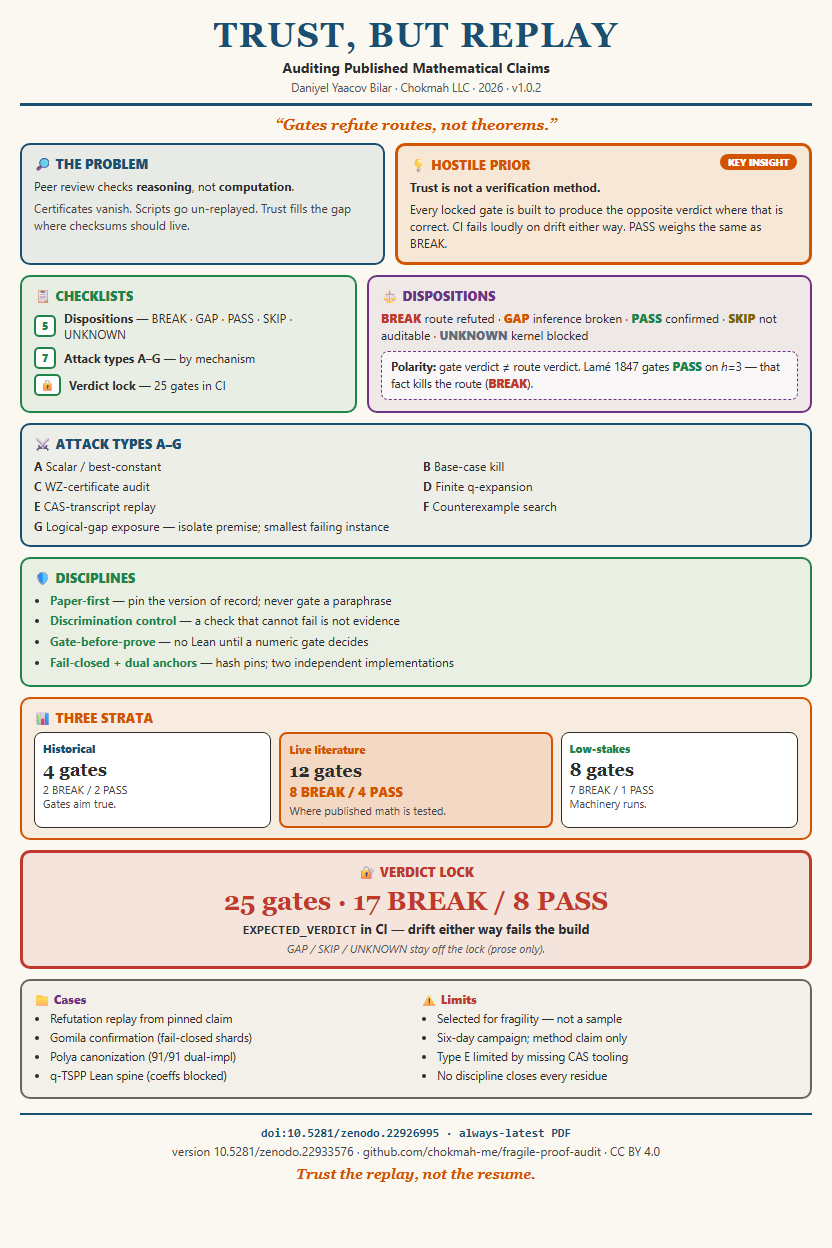
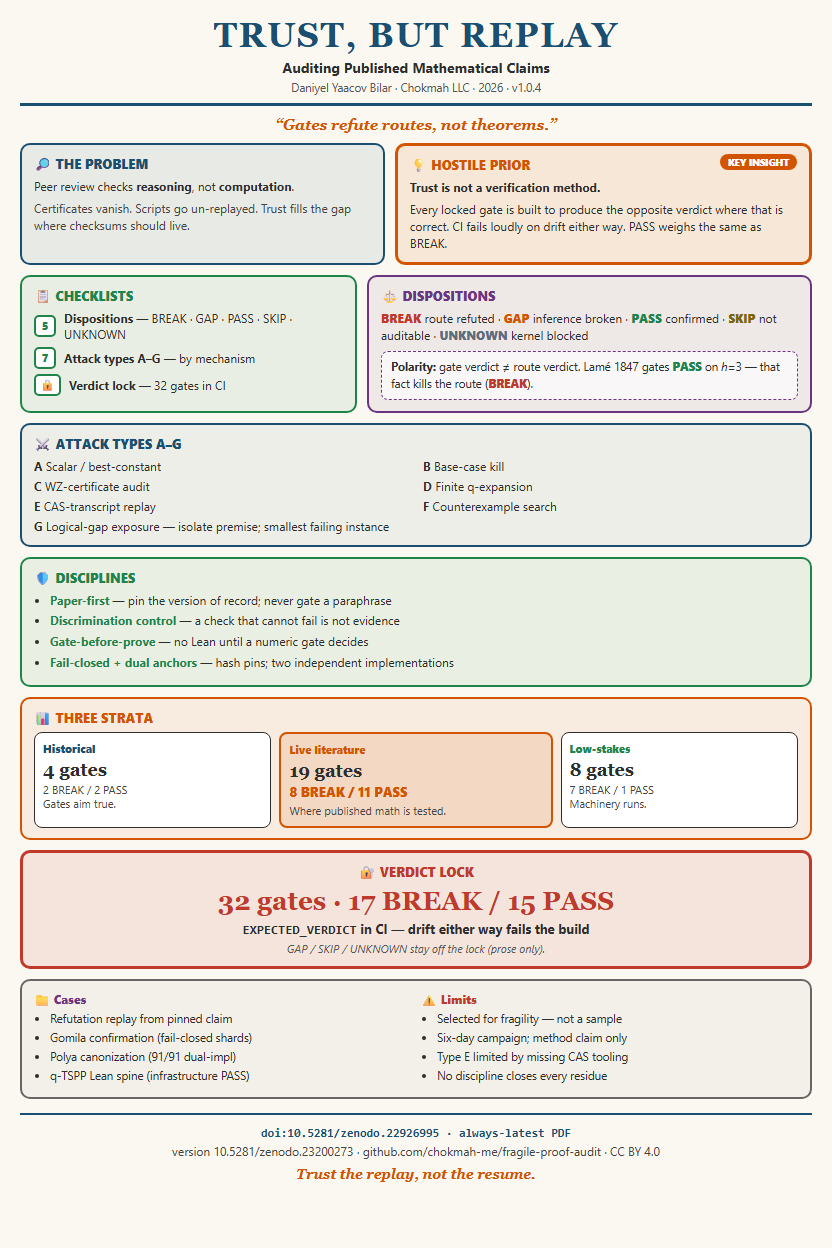
Trust-but-Replay catalog v1.0.4: DOI 10.5281/zenodo.23200273.
Keep page slug 22926996. Update version DOI, 32-gate lock (17 BREAK /
15 PASS), abstract/JSON-LD/feed/sitemap, and sketchnote (cache-bust ?v=6).

diff --git a/research/trust-but-replay-auditing-published-mathematical-claims-22926996/index.html b/research/trust-but-replay-auditing-published-mathematical-claims-22926996/index.html
@@ -4,28 +4,28 @@
     <meta charset="UTF-8">
     <meta name="viewport" content="width=device-width, initial-scale=1.0">
     <title>Trust, but Replay: Auditing Published Mathematical Claims | Chokmah Research</title>
-    <meta name="description" content="v1.0.3 methods companion to fragile-proof-audit: disposition taxonomy (BREAK/GAP/PASS/SKIP/UNKNOWN), attack types A–G, evidentiary disciplines, and a 25-gate verdict lock (17 BREAK / 8 PASS). Prefer concept DOI 10.5281/zenodo.22926995.">
+    <meta name="description" content="v1.0.4 methods companion to fragile-proof-audit: disposition taxonomy (BREAK/GAP/PASS/SKIP/UNKNOWN), attack types A–G, evidentiary disciplines, and a 32-gate verdict lock (17 BREAK / 15 PASS). Prefer concept DOI 10.5281/zenodo.22926995.">
     <link rel="canonical" href="https://chokmah.me/research/trust-but-replay-auditing-published-mathematical-claims-22926996/">
     <meta property="og:type" content="article">
     <meta property="og:url" content="https://chokmah.me/research/trust-but-replay-auditing-published-mathematical-claims-22926996/">
     <meta property="og:title" content="Trust, but Replay: Auditing Published Mathematical Claims">
-    <meta property="og:description" content="v1.0.3 methods companion to fragile-proof-audit: disposition taxonomy, attack types A–G, evidentiary disciplines, and a 25-gate verdict lock (17 BREAK / 8 PASS). Prefer concept DOI 10.5281/zenodo.22926995.">
-    <meta property="og:image" content="https://chokmah.me/assets/sketchnote-zenodo-22926996.png?v=5">
+    <meta property="og:description" content="v1.0.4 methods companion to fragile-proof-audit: disposition taxonomy, attack types A–G, evidentiary disciplines, and a 32-gate verdict lock (17 BREAK / 15 PASS). Prefer concept DOI 10.5281/zenodo.22926995.">
+    <meta property="og:image" content="https://chokmah.me/assets/sketchnote-zenodo-22926996.png?v=6">
     <meta name="twitter:card" content="summary_large_image">
-    <meta name="twitter:image" content="https://chokmah.me/assets/sketchnote-zenodo-22926996.png?v=5">
+    <meta name="twitter:image" content="https://chokmah.me/assets/sketchnote-zenodo-22926996.png?v=6">
     <meta name="citation_title" content="Trust, but Replay: Auditing Published Mathematical Claims">
     <meta name="citation_author" content="Bilar, Daniyel Yaacov">
-    <meta name="citation_publication_date" content="2026-09-23">
-    <meta name="citation_doi" content="10.5281/zenodo.23148836">
+    <meta name="citation_publication_date" content="2026-10-06">
+    <meta name="citation_doi" content="10.5281/zenodo.23200273">
     <meta name="citation_publisher" content="Zenodo">
-    <meta name="citation_public_url" content="https://zenodo.org/records/23148836">
-    <meta name="citation_abstract_html_url" content="https://zenodo.org/records/23148836">
-    <meta name="citation_pdf_url" content="https://zenodo.org/records/23148836/files/bilar-2026-trust-but-replay.pdf?download=1">
+    <meta name="citation_public_url" content="https://zenodo.org/records/23200273">
+    <meta name="citation_abstract_html_url" content="https://zenodo.org/records/23200273">
+    <meta name="citation_pdf_url" content="https://zenodo.org/records/23200273/files/bilar-2026-trust-but-replay.pdf?download=1">
     <meta name="citation_keywords" content="proof audit; reproducibility; mathematical claims; computer-assisted proof; fail-closed replay; formal verification; research integrity; Lean 4">
     <meta name="DC.title" content="Trust, but Replay: Auditing Published Mathematical Claims">
     <meta name="DC.creator" content="Bilar, Daniyel Yaacov">
-    <meta name="DC.identifier" content="https://doi.org/10.5281/zenodo.23148836">
-    <meta name="DC.date" content="2026-09-23">
+    <meta name="DC.identifier" content="https://doi.org/10.5281/zenodo.23200273">
+    <meta name="DC.date" content="2026-10-06">
     <meta name="DC.rights" content="cc-by-4.0">
     <script type="application/ld+json">
 {
@@ -34,19 +34,19 @@
   "name": "Trust, but Replay: Auditing Published Mathematical Claims",
   "headline": "Trust, but Replay: Auditing Published Mathematical Claims",
   "url": "https://chokmah.me/research/trust-but-replay-auditing-published-mathematical-claims-22926996/",
-  "datePublished": "2026-09-23",
+  "datePublished": "2026-10-06",
   "inLanguage": "en",
-  "abstract": "Published mathematics is trusted far more than it is independently replayed. Peer review checks reasoning, not computation - and increasingly, part of the proof is a computation. This paper describes a short, intensive audit campaign (six calendar days, 2026-09-18 through 2026-09-23) that replays published mathematical claims from scratch under a hostile prior: every locked gate is built to produce the opposite verdict where the opposite is correct (the four exact-equality gates are exempt), and a CI-enforced verdict lock fails loudly on drift in either direction. The contribution is the playbook, not the verdicts: a five-disposition taxonomy (BREAK, GAP, PASS, SKIP, UNKNOWN) with a polarity rule separating gate verdicts from claim-level dispositions; seven attack types classified by mechanism, each with a worked example; and the evidentiary disciplines - paper-first gating, discrimination controls, gate-before-prove, fail-closed replay, independent anchors - together with the record of where those disciplines were violated and what caught the violations. The 25 locked gates (17 BREAK / 8 PASS) fall into three strata with very different evidentiary weight. Prefer concept DOI 10.5281/zenodo.22926995 for always-latest PDF. Companion campaign: https://github.com/chokmah-me/fragile-proof-audit. Gates refute routes, not theorems.",
+  "abstract": "Published mathematics is trusted far more than it is independently replayed. Peer review checks reasoning, not computation - and increasingly, part of the proof is a computation. This paper describes a short, intensive audit campaign (six calendar days, 2026-09-18 through 2026-09-23) that replays published mathematical claims from scratch under a hostile prior: every locked gate is built to produce the opposite verdict where the opposite is correct (the four exact-equality gates are exempt), and a CI-enforced verdict lock fails loudly on drift in either direction. The contribution is the playbook, not the verdicts: a five-disposition taxonomy (BREAK, GAP, PASS, SKIP, UNKNOWN) with a polarity rule separating gate verdicts from claim-level dispositions; seven attack types classified by mechanism, each with a worked example; and the evidentiary disciplines - paper-first gating, discrimination controls, gate-before-prove, fail-closed replay, independent anchors - together with the record of where those disciplines were violated and what caught the violations. The 32 locked gates (17 BREAK / 15 PASS) fall into three strata with very different evidentiary weight: four historical calibrations, nineteen live-literature targets, and eight low-stakes preprints, plus one infrastructure oracle. Prefer concept DOI 10.5281/zenodo.22926995 for always-latest PDF. Companion campaign: https://github.com/chokmah-me/fragile-proof-audit. Gates refute routes, not theorems.",
   "identifier": {
     "@type": "PropertyValue",
     "propertyID": "DOI",
-    "value": "10.5281/zenodo.23148836"
+    "value": "10.5281/zenodo.23200273"
   },
   "sameAs": [
-    "https://doi.org/10.5281/zenodo.23148836",
+    "https://doi.org/10.5281/zenodo.23200273",
     "https://doi.org/10.5281/zenodo.22926995"
   ],
-  "image": "https://chokmah.me/assets/sketchnote-zenodo-22926996.png?v=5",
+  "image": "https://chokmah.me/assets/sketchnote-zenodo-22926996.png?v=6",
   "author": [
     {
       "@type": "Person",
@@ -75,7 +75,7 @@
     "Lean 4"
   ],
   "license": "https://creativecommons.org/licenses/by/4.0/",
-  "version": "1.0.3"
+  "version": "1.0.4"
 }
     </script>
     <link rel="icon" type="image/x-icon" href="/favicon.ico">
@@ -140,24 +140,24 @@
     <nav class="site-nav"><a href="/">chokmah.me</a> / <a href="/research/">Research</a></nav>
     <header>
       <h1>Trust, but Replay: Auditing Published Mathematical Claims</h1>
-      <p class="meta"><span>Bilar, Daniyel Yaacov</span> &middot; 2026-09-23 &middot; v1.0.3 &middot; publication/preprint &middot; cc-by-4.0</p>
+      <p class="meta"><span>Bilar, Daniyel Yaacov</span> &middot; 2026-10-06 &middot; v1.0.4 &middot; publication/preprint &middot; cc-by-4.0</p>
     </header>
     <div class="callout">
-      <strong>Version of record (canonical):</strong> <a href="https://doi.org/10.5281/zenodo.23148836">https://doi.org/10.5281/zenodo.23148836</a><br>
+      <strong>Version of record (canonical):</strong> <a href="https://doi.org/10.5281/zenodo.23200273">https://doi.org/10.5281/zenodo.23200273</a><br>
       <strong>Concept DOI (always latest PDF):</strong> <a href="https://doi.org/10.5281/zenodo.22926995">https://doi.org/10.5281/zenodo.22926995</a><br>
-      <strong>Download PDF (Zenodo):</strong> <a href="https://zenodo.org/records/23148836/files/bilar-2026-trust-but-replay.pdf?download=1">open</a><br>
+      <strong>Download PDF (Zenodo):</strong> <a href="https://zenodo.org/records/23200273/files/bilar-2026-trust-but-replay.pdf?download=1">open</a><br>
       <strong>Companion campaign:</strong> <a href="https://github.com/chokmah-me/fragile-proof-audit">github.com/chokmah-me/fragile-proof-audit</a><br>
       <strong>OSF mirror:</strong> <a href="https://osf.io/ukmjp/">osf.io/ukmjp</a> (DOI <a href="https://doi.org/10.17605/OSF.IO/UKMJP">10.17605/OSF.IO/UKMJP</a>)
     </div>
     <div class="poster">
-      <a href="https://chokmah.me/assets/sketchnote-zenodo-22926996.png?v=5">
-        <img src="https://chokmah.me/assets/sketchnote-zenodo-22926996.png?v=5" width="563" height="845"
-             alt="Sketchnote for Trust, but Replay: gates refute routes not theorems; five dispositions; 25-gate verdict lock; attack types A through G; hostile prior on published computational claims">
+      <a href="https://chokmah.me/assets/sketchnote-zenodo-22926996.png?v=6">
+        <img src="https://chokmah.me/assets/sketchnote-zenodo-22926996.png?v=6" width="563" height="845"
+             alt="Sketchnote for Trust, but Replay: gates refute routes not theorems; five dispositions; 32-gate verdict lock; attack types A through G; hostile prior on published computational claims">
       </a>
-      <p class="cap">Sketchnote for v1.0.3 (CC BY 4.0). <a href="https://chokmah.me/assets/sketchnote-zenodo-22926996.png?v=5">Full-size PNG</a>.</p>
+      <p class="cap">Sketchnote for v1.0.4 (CC BY 4.0). <a href="https://chokmah.me/assets/sketchnote-zenodo-22926996.png?v=6">Full-size PNG</a>.</p>
     </div>
     <h2>Abstract</h2>
-    <p>Published mathematics is trusted far more than it is independently replayed. Peer review checks reasoning, not computation - and increasingly, part of the proof <em>is</em> a computation. This paper describes a short, intensive audit campaign (six calendar days, 2026-09-18 through 2026-09-23) that replays published mathematical claims from scratch under a hostile prior: every locked gate is built to produce the opposite verdict where the opposite is correct (the four exact-equality gates are exempt), and a CI-enforced verdict lock fails loudly on drift in either direction. The contribution is the playbook, not the verdicts: a five-disposition taxonomy (BREAK, GAP, PASS, SKIP, UNKNOWN) with a polarity rule separating gate verdicts from claim-level dispositions; seven attack types classified by mechanism, each with a worked example; and the evidentiary disciplines - paper-first gating, discrimination controls, gate-before-prove, fail-closed replay, independent anchors - together with the record of where those disciplines were violated and what caught the violations. The 25 locked gates (17 BREAK / 8 PASS) fall into three strata with very different evidentiary weight: four historical calibrations, twelve live-literature targets, and eight low-stakes preprints, plus one infrastructure oracle. Companion repository: <a href="https://github.com/chokmah-me/fragile-proof-audit">github.com/chokmah-me/fragile-proof-audit</a>. Gates refute routes, not theorems.</p>
+    <p>Published mathematics is trusted far more than it is independently replayed. Peer review checks reasoning, not computation - and increasingly, part of the proof <em>is</em> a computation. This paper describes a short, intensive audit campaign (six calendar days, 2026-09-18 through 2026-09-23) that replays published mathematical claims from scratch under a hostile prior: every locked gate is built to produce the opposite verdict where the opposite is correct (the four exact-equality gates are exempt), and a CI-enforced verdict lock fails loudly on drift in either direction. The contribution is the playbook, not the verdicts: a five-disposition taxonomy (BREAK, GAP, PASS, SKIP, UNKNOWN) with a polarity rule separating gate verdicts from claim-level dispositions; seven attack types classified by mechanism, each with a worked example; and the evidentiary disciplines - paper-first gating, discrimination controls, gate-before-prove, fail-closed replay, independent anchors - together with the record of where those disciplines were violated and what caught the violations. The 32 locked gates (17 BREAK / 15 PASS) fall into three strata with very different evidentiary weight: four historical calibrations, nineteen live-literature targets, and eight low-stakes preprints, plus one infrastructure oracle. Companion repository: <a href="https://github.com/chokmah-me/fragile-proof-audit">github.com/chokmah-me/fragile-proof-audit</a>. Gates refute routes, not theorems.</p>
     <h2>Keywords</h2>
     <p class="kw">proof audit &middot; reproducibility &middot; mathematical claims &middot; computer-assisted proof &middot; fail-closed replay &middot; formal verification &middot; research integrity &middot; Lean 4</p>
     <p style="margin-top:40px"><a href="/research/">&larr; All research</a></p>

diff --git a/assets/sketchnote-zenodo-22926996.html b/assets/sketchnote-zenodo-22926996.html
@@ -225,7 +225,7 @@
   <header class="title">
     <h1>TRUST, BUT REPLAY</h1>
     <p class="sub">Auditing Published Mathematical Claims</p>
-    <p class="by">Daniyel Yaacov Bilar · Chokmah LLC · 2026 · v1.0.2</p>
+    <p class="by">Daniyel Yaacov Bilar · Chokmah LLC · 2026 · v1.0.4</p>
   </header>
   <p class="motto">“Gates refute routes, not theorems.”</p>
 
@@ -248,7 +248,7 @@
       <h2>📋 CHECKLISTS</h2>
       <div class="check-item"><span class="badge">5</span><span><strong>Dispositions</strong> — BREAK · GAP · PASS · SKIP · UNKNOWN</span></div>
       <div class="check-item"><span class="badge">7</span><span><strong>Attack types A–G</strong> — by mechanism</span></div>
-      <div class="check-item"><span class="badge">🔒</span><span><strong>Verdict lock</strong> — 25 gates in CI</span></div>
+      <div class="check-item"><span class="badge">🔒</span><span><strong>Verdict lock</strong> — 32 gates in CI</span></div>
     </div>
     <div class="col box disp" style="flex:1.35">
       <h2>⚖ DISPOSITIONS</h2>
@@ -299,8 +299,8 @@
       </div>
       <div class="stratum s-live">
         <div class="lab">Live literature</div>
-        <div class="num">12 gates</div>
-        <div class="detail" style="font-size:13px;font-weight:800;color:var(--orange)">8 BREAK / 4 PASS</div>
+        <div class="num">19 gates</div>
+        <div class="detail" style="font-size:13px;font-weight:800;color:var(--orange)">8 BREAK / 11 PASS</div>
         <div class="detail">Where published math is tested.</div>
       </div>
       <div class="stratum s-low">
@@ -313,7 +313,7 @@
 
   <div class="box lock">
     <h2>🔐 VERDICT LOCK</h2>
-    <div class="big">25 gates · 17 BREAK / 8 PASS</div>
+    <div class="big">32 gates · 17 BREAK / 15 PASS</div>
     <div class="subline"><code>EXPECTED_VERDICT</code> in CI — drift either way fails the build</div>
     <div class="note">GAP / SKIP / UNKNOWN stay off the lock (prose only).</div>
   </div>
@@ -326,7 +326,7 @@
           <li>Refutation replay from pinned claim</li>
           <li>Gomila confirmation (fail-closed shards)</li>
           <li>Polya canonization (91/91 dual-impl)</li>
-          <li>q-TSPP Lean spine (coeffs blocked)</li>
+          <li>q-TSPP Lean spine (infrastructure PASS)</li>
         </ul>
       </div>
       <div class="lim">
@@ -343,7 +343,7 @@
 
   <footer class="footer">
     <div class="doi">doi:10.5281/zenodo.22926995 · always-latest PDF</div>
-    <div>version 10.5281/zenodo.22933576 · github.com/chokmah-me/fragile-proof-audit · CC BY 4.0</div>
+    <div>version 10.5281/zenodo.23200273 · github.com/chokmah-me/fragile-proof-audit · CC BY 4.0</div>
     <div class="close">Trust the replay, not the resume.</div>
   </footer>
 

diff --git a/research/index.html b/research/index.html
@@ -73,12 +73,12 @@
             "@id": "https://chokmah.me/research/trust-but-replay-auditing-published-mathematical-claims-22926996/#item",
             "url": "https://chokmah.me/research/trust-but-replay-auditing-published-mathematical-claims-22926996/",
             "name": "Trust, but Replay: Auditing Published Mathematical Claims",
-            "datePublished": "2026-09-23",
+            "datePublished": "2026-10-06",
             "author": {
               "@id": "https://chokmah.me/#person"
             },
-            "identifier": "10.5281/zenodo.23148836",
-            "description": "v1.0.3 methods companion to fragile-proof-audit: disposition taxonomy (BREAK/GAP/PASS/SKIP/UNKNOWN), attack types A–G, evidentiary disciplines, 25-gate verdict lock (17 BREAK / 8 PASS). Concept DOI 10.5281/zenodo.22926995."
+            "identifier": "10.5281/zenodo.23200273",
+            "description": "v1.0.4 methods companion to fragile-proof-audit: disposition taxonomy (BREAK/GAP/PASS/SKIP/UNKNOWN), attack types A–G, evidentiary disciplines, 32-gate verdict lock (17 BREAK / 15 PASS). Concept DOI 10.5281/zenodo.22926995."
           }
         },
         {
@@ -789,8 +789,8 @@
     <h2 class="year-head">2026</h2>
 <div class="card">
       <h3><a href="https://chokmah.me/research/trust-but-replay-auditing-published-mathematical-claims-22926996/">Trust, but Replay: Auditing Published Mathematical Claims</a></h3>
-      <p class="meta">Bilar, Daniyel Yaacov &middot; 2026-10-04 &middot; v1.0.3 &middot; DOI: 10.5281/zenodo.23148836</p>
-      <p>v1.0.3 methods companion to fragile-proof-audit: disposition taxonomy (BREAK/GAP/PASS/SKIP/UNKNOWN), attack types A–G, evidentiary disciplines, and a 25-gate verdict lock (17 BREAK / 8 PASS). Concept DOI 10.5281/zenodo.22926995. Companion repo github.com/chokmah-me/fragile-proof-audit.</p>
+      <p class="meta">Bilar, Daniyel Yaacov &middot; 2026-10-06 &middot; v1.0.4 &middot; DOI: 10.5281/zenodo.23200273</p>
+      <p>v1.0.4 methods companion to fragile-proof-audit: disposition taxonomy (BREAK/GAP/PASS/SKIP/UNKNOWN), attack types A–G, evidentiary disciplines, and a 32-gate verdict lock (17 BREAK / 15 PASS). Concept DOI 10.5281/zenodo.22926995. Companion repo github.com/chokmah-me/fragile-proof-audit.</p>
     </div>
     <div class="card">
       <h3><a href="https://chokmah.me/research/parabolic-fractal-v1-1-0-code-and-data-for-fan-in-distributio-22908056/">parabolic-fractal v1.1.0: code and data for “Fan-In Distributions in Human-Written vs AI-Generated Python Codebases”</a></h3>
